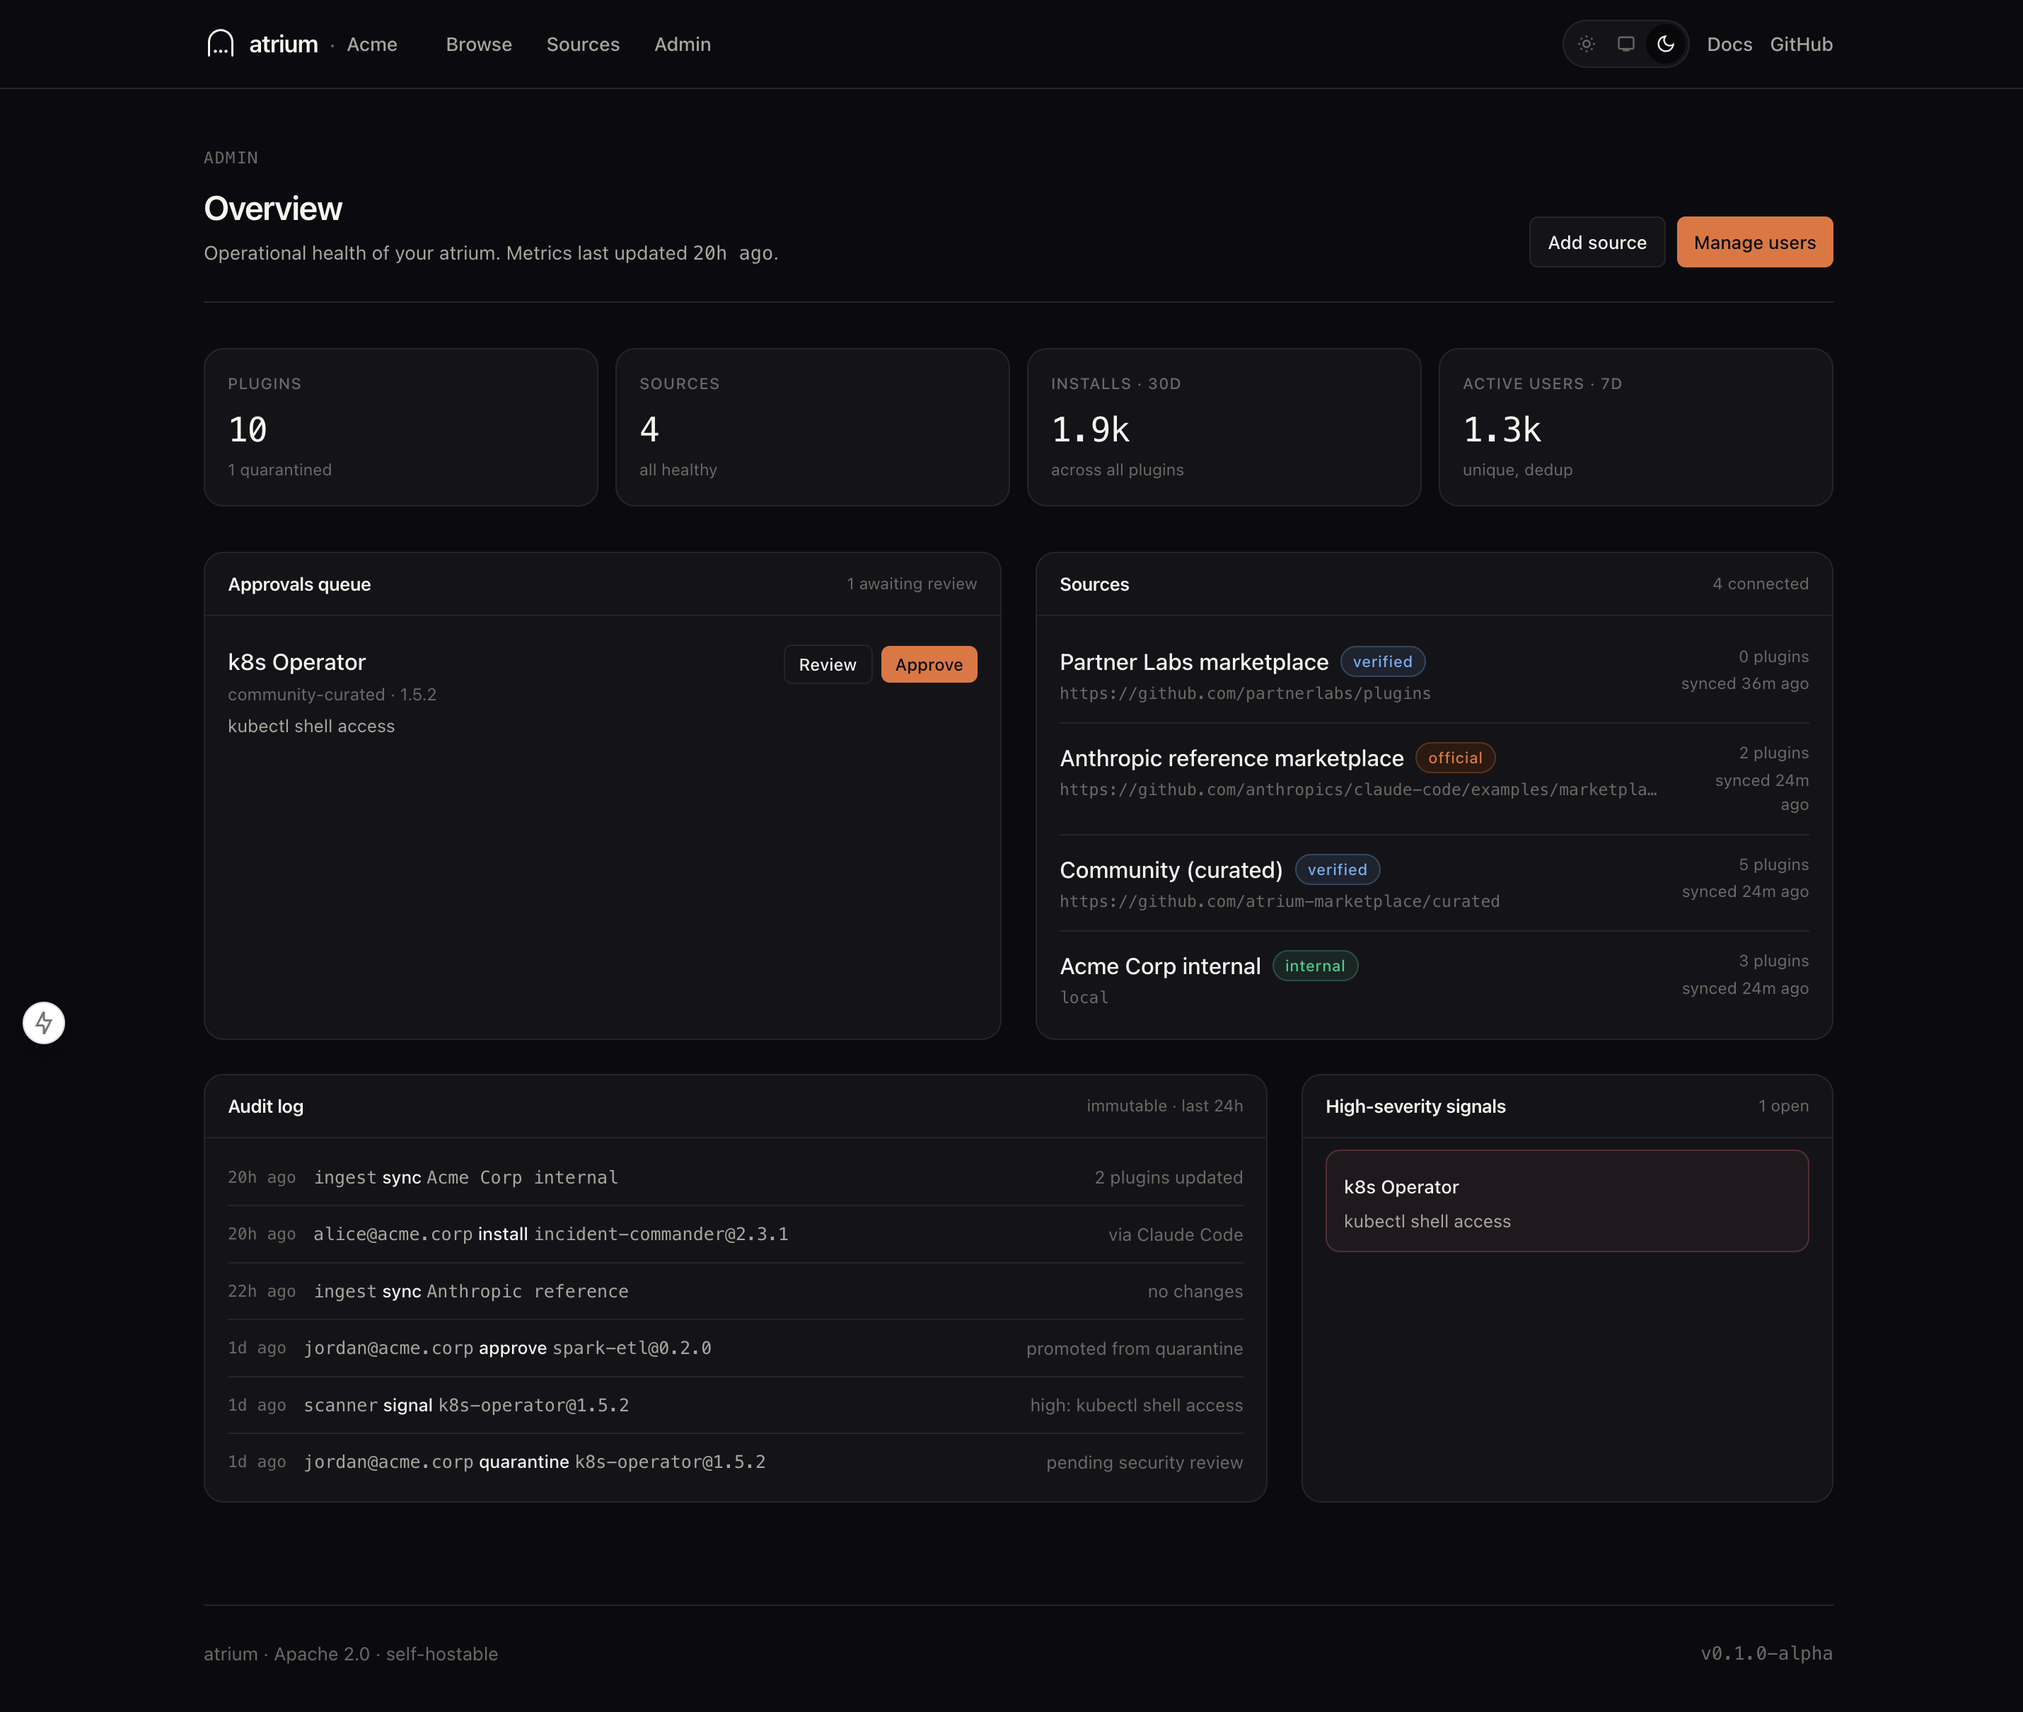
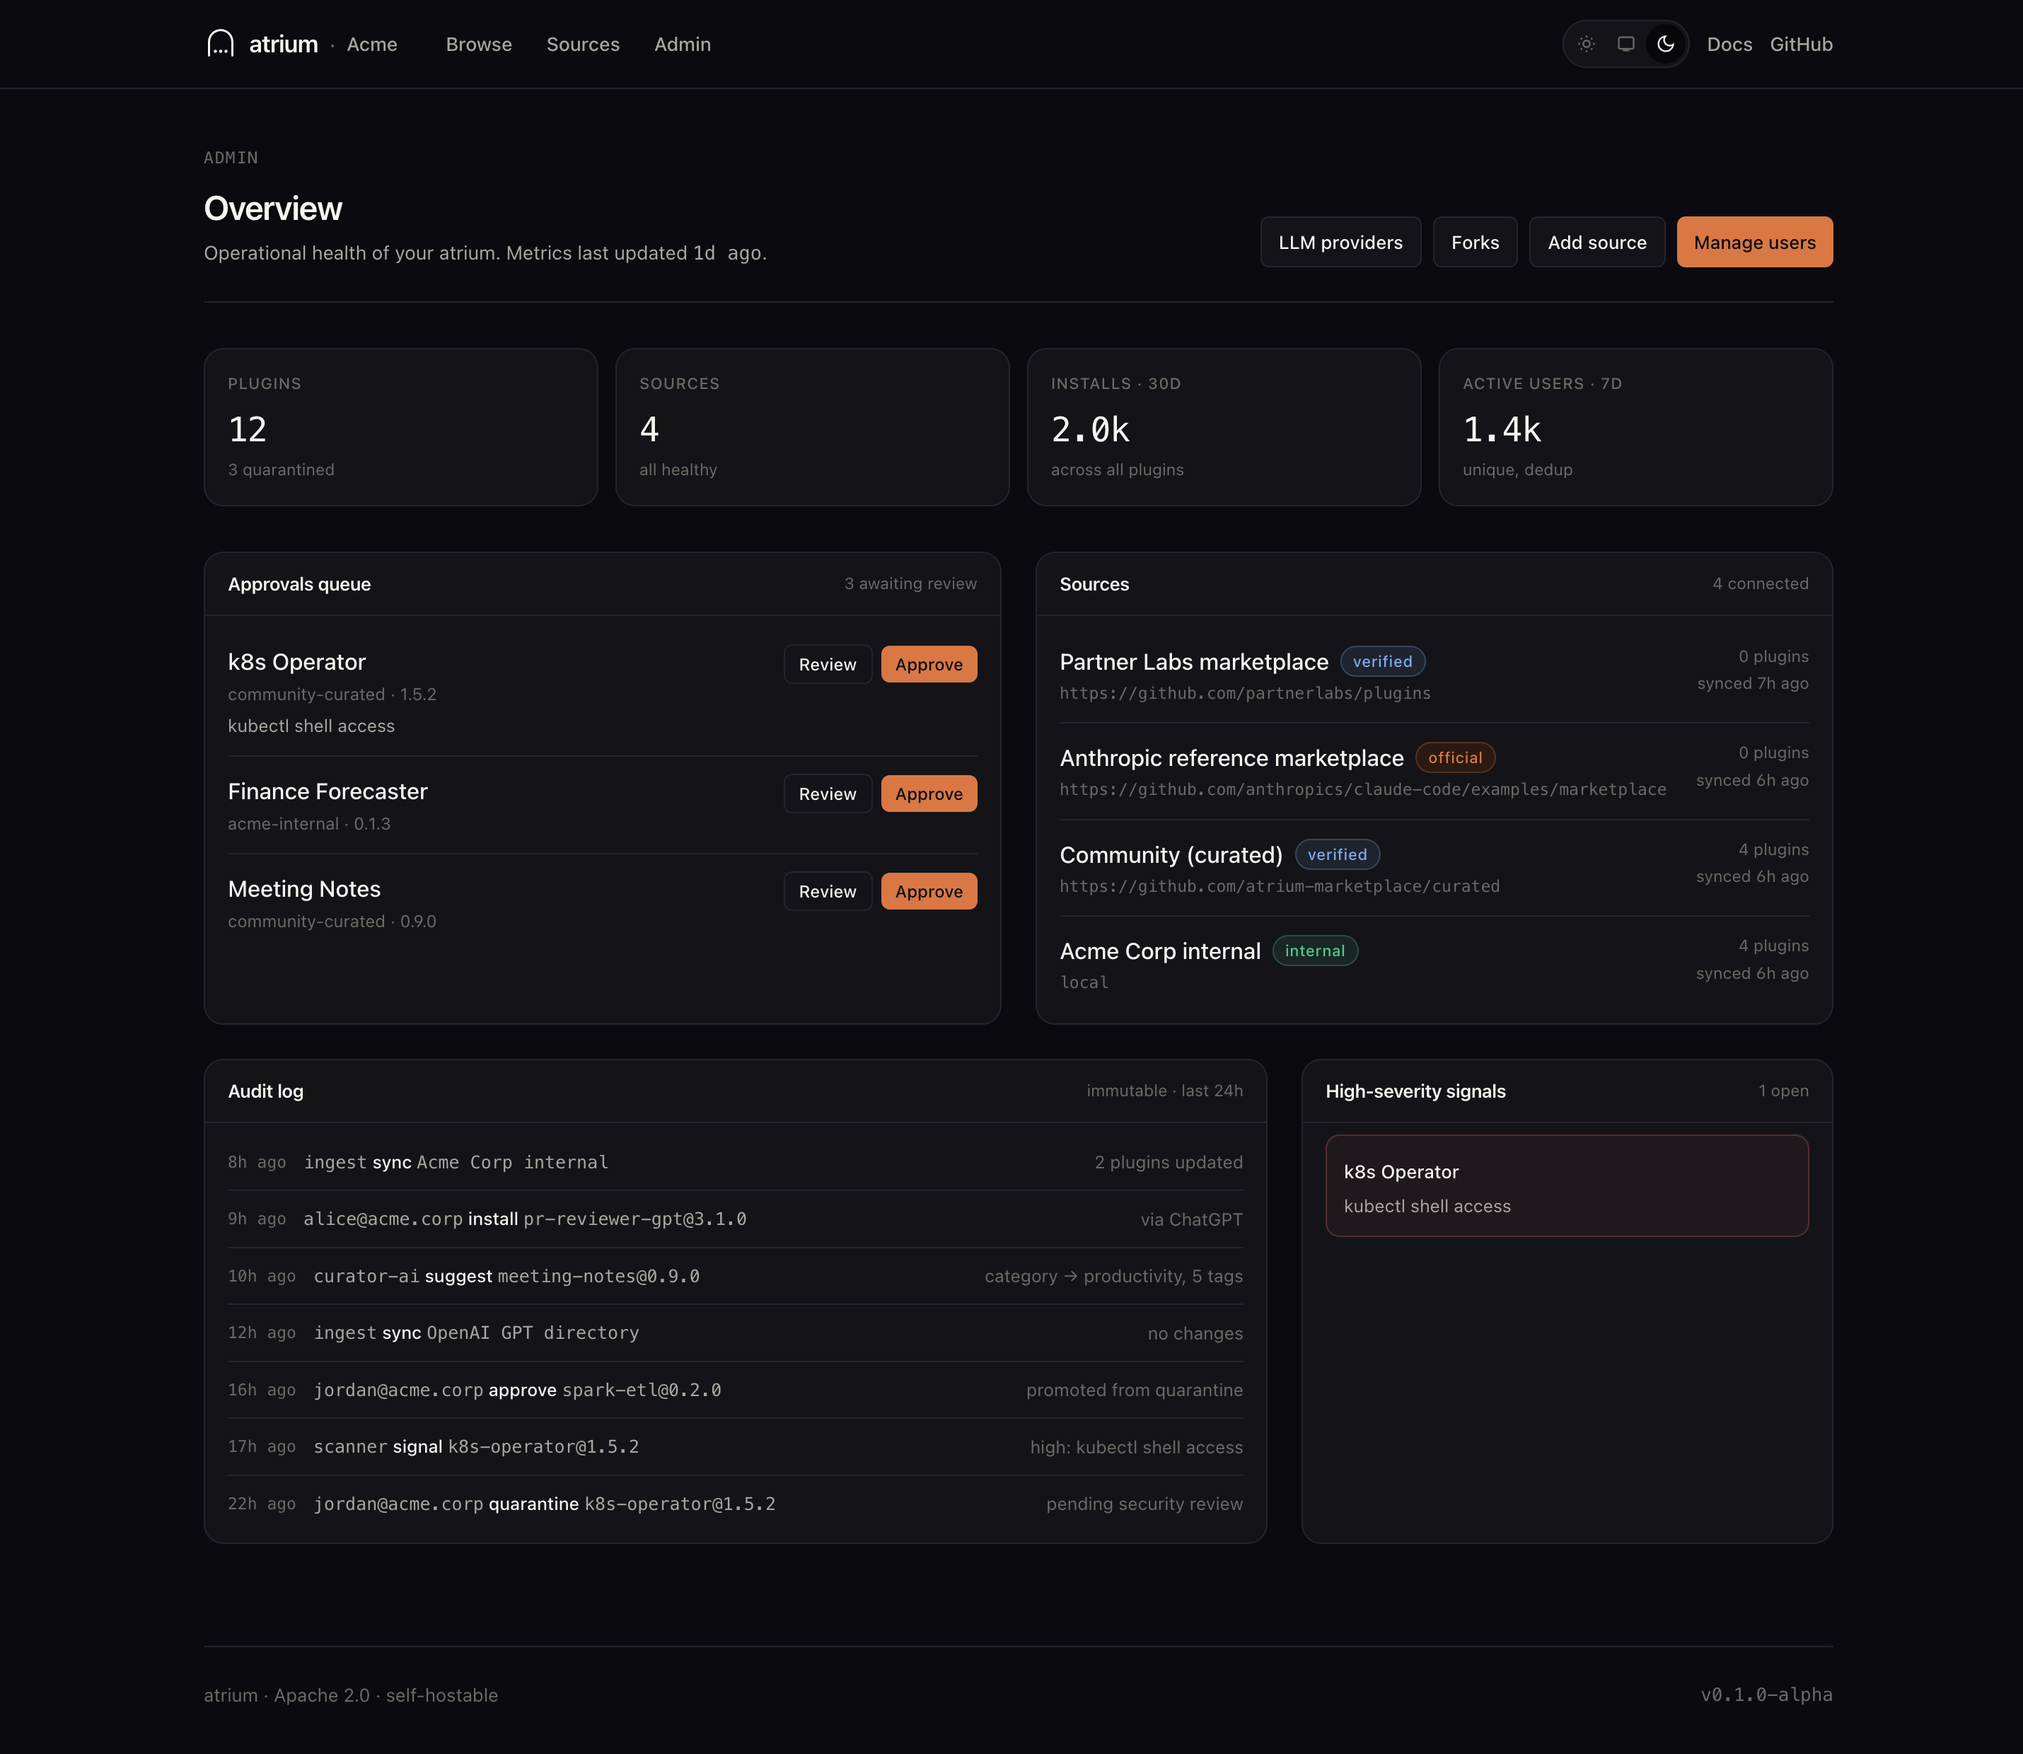
docs: reposition README as provider-agnostic + refresh screenshots
- "Any provider. Any framework." replaces the Claude-Code-first tagline
- New "Supported providers" table (Claude Code / MCP / OpenAI / Gemini / generic)
- Sections on AI curation + LLM key vault (LiteLLM-compatible proxy)
- Sections on version pinning and the fork-and-modify workflow (the
  user-facing story for orgs who want to redistribute an external
  marketplace with their own modifications)
- Updated "Why Atrium" comparison and feature list
- Refreshed 3 screenshots + added providers admin screenshot

diff --git a/README.md b/README.md
@@ -4,7 +4,7 @@
 
 <p align="center">
   <b>The open plugin registry for AI agents.</b><br>
-  Self-host your own. Federate from others. Audit everything.
+  Any provider. Any framework. Self-host your own. Federate from others. Audit everything.
 </p>
 
 <p align="center">
@@ -16,9 +16,9 @@
 
 ---
 
-Anthropic shipped an excellent plugin primitive for Claude Code. It's incomplete for enterprises: no private mirror, no federation policy, no observability, no governance. Atrium is the thin, neutral control plane that fills the gap — **LiteLLM for plugin marketplaces**.
+AI agents are going plural — Claude Code, ChatGPT/Assistants, Gemini extensions, MCP servers, custom frameworks. Each ships its own plugin/extension format, and every enterprise is rediscovering the same problems privately: no unified catalog, no governance, no observability, no white-label story.
 
-Point your team at one URL. Get a beautiful catalog, one-click install snippets, federation from public marketplaces, SSO, RBAC, and OpenTelemetry metrics.
+Atrium is the thin, neutral control plane — **LiteLLM for plugin marketplaces**. Run one instance, get a polished catalog across providers, with federation, version pinning, AI-assisted curation, encrypted LLM key vault, pin-and-fork workflows, and OpenTelemetry out of the box.
 
 ## Screenshots
 
@@ -61,14 +61,30 @@ Point your team at one URL. Get a beautiful catalog, one-click install snippets,
 
 ## Why Atrium
 
-| What enterprises need | What Anthropic's reference marketplace gives | What Atrium adds |
+| What enterprises need | What individual provider stores give | What Atrium adds |
 |---|---|---|
-| A private mirror of approved plugins | Public catalog only | Self-hosted + federated, internal plugins live here |
+| One catalog across providers | Fragmented per vendor | Claude Code, OpenAI, Gemini, MCP, generic — same browse, same policy |
+| A private mirror of approved plugins | Public catalog only | Self-hosted + federated; internal plugins live here |
 | Policy on what devs can install | Anyone can add any URL | Role-aware allow-list, quarantine-by-default, CVE gating |
+| Own LLM keys + proxy | N/A | Encrypted vault (AES-256-GCM); point at a LiteLLM proxy or direct |
+| Automatic catalog hygiene | N/A | AI suggests category + tags using your own LLM keys |
+| Version pinning | Upstream-only | Pin any plugin to a specific version; upstream drift never affects users |
+| Fork-and-modify workflow | N/A | Snapshot an external plugin, distribute your own modified copy |
 | Observability on plugin usage | None | OpenTelemetry traces + per-plugin install / command metrics |
-| A human discovery UX | CLI text list | Searchable catalog with trust tiers, security signals, usage stats |
-| White-labelled for your org | Anthropic-branded | `ATRIUM_ORG_*` env vars theme the whole UI |
+| White-label for your org | Vendor-branded | `ATRIUM_ORG_*` env vars theme the whole UI |
 | Compliance story | None | Immutable audit log, SBOM, signed releases, documented threat model |
+
+## Supported providers
+
+| Provider | Format | Atrium can ingest | Atrium can serve |
+|---|---|---|---|
+| **Claude Code** | `.claude-plugin/marketplace.json` | ✅ git / http | ✅ `/mkt/marketplace.json` |
+| **MCP** | `mcpServers[]` fragments | ✅ as part of any plugin | ✅ surfaced in plugin detail |
+| **OpenAI** | GPT / Custom GPT / Assistants Actions | ✅ directory URL | ✅ plugin detail + search |
+| **Gemini** | Gemini extensions | ✅ git / http | ✅ plugin detail + search |
+| **Generic** | Your custom agent framework | ✅ via HTTP source | ✅ plugin detail + search |
+
+New providers are thin adapters in `lib/ingest/` + optional render extensions to the plugin detail page.
 
 ## Quickstart (dev)
 
@@ -81,7 +97,7 @@ pnpm db:push
 pnpm dev
 ```
 
-Open http://localhost:3000. A seeded catalog of ten realistic plugins across three trust tiers loads automatically.
+Open [http://localhost:3000](http://localhost:3000). A seeded catalog of 12 plugins across 4 providers and 4 trust tiers loads automatically.
 
 ## Quickstart (Docker)
 
@@ -100,23 +116,41 @@ Once Atrium is running, point Claude Code at it:
 /plugin install incident-commander@2.3.1
 ```
 
-Atrium serves Anthropic's `.claude-plugin/marketplace.json` format unchanged. Anything that works in the public marketplace works here.
+Atrium serves Anthropic's `.claude-plugin/marketplace.json` format unchanged. Version pins, hidden flags, and category overrides are honored automatically.
+
+## AI curation & LLM key vault
+
+Under Admin → LLM providers you can register API keys for Anthropic, OpenAI, Azure OpenAI, Gemini, or a LiteLLM proxy. Keys are encrypted at rest with AES-256-GCM using a key derived from `AUTH_SECRET`; only the last four characters are ever shown.
+
+Once at least one provider is configured, every plugin detail page gets a **Curation** panel: click **Suggest** to ask the configured LLM for a category and 3-6 tags, edit if desired, and **Apply override** to persist. The catalog immediately reflects the new metadata.
+
+## Version pinning & forking
+
+On any plugin, admins can:
+
+- **Pin** to a specific version — `/mkt/marketplace.json` serves that version regardless of upstream drift. Unpin to resume tracking upstream.
+- **Fork** an external plugin into your internal source. Atrium snapshots the upstream manifest at fork time and writes a `PluginFork` record you can diverge from independently. Upstream changes never overwrite a fork.
+
+The combination gives orgs full control over third-party code they redistribute: subscribe to any public marketplace, review, modify, pin, and serve your curated version.
 
 ## Features shipped in the alpha
 
-- **Browse** — faceted catalog with category chips, trust-tier filter, per-plugin usage, and review flags for plugins with security signals.
-- **Plugin detail** — full Anthropic manifest rendered (commands, subagents, skills, hooks, MCP servers), one-click install snippet, sticky sidebar with usage metrics, provenance, and a live security-signals panel.
-- **Federation** — ingest from git repos, HTTP URLs, or local uploads; three-tier trust model (`official` / `verified` / `community` / `internal`); quarantine-by-default for new plugins.
-- **Admin dashboard** — operational stats, approvals queue, source health, immutable audit log, high-severity signals panel.
-- **Add source** — server-validated form + Prisma-backed persistence; new sources appear immediately in the catalog.
-- **White-label theming** — `ATRIUM_ORG_NAME`, `ATRIUM_ORG_SHORT_NAME`, `ATRIUM_ORG_LOGO_URL`, `ATRIUM_ORG_URL`, `ATRIUM_SUPPORT_EMAIL`, `ATRIUM_PROPOSAL_URL`, `ATRIUM_ACCENT_HEX`. Theme without touching code.
+- **Browse** — faceted catalog with category chips, provider filter, trust-tier filter, per-plugin usage, and review flags for plugins with security signals.
+- **Plugin detail** — full manifest for the relevant provider (Claude commands/agents/skills/hooks/MCP, OpenAI actions, Gemini extensions), one-click install snippet, sticky sidebar with usage metrics, provenance, security signals, curation + distribution panels.
+- **Federation** — ingest from git repos, HTTP URLs, or local uploads; four-tier trust model (`official` / `verified` / `community` / `internal`); quarantine-by-default for new plugins.
+- **Admin dashboard** — operational stats, approvals queue, source health, immutable audit log, high-severity signals panel. LLM providers + Forks tabs.
+- **AI curation engine** — one-click category + tag suggestions for uncurated plugins. Persists as `PluginOverride` rows that rehydrate the catalog.
+- **Version pinning + forking** — pin any plugin; fork external plugins into your internal source with upstream snapshot preserved.
+- **LLM provider vault** — AES-256-GCM encrypted API keys, baseUrl-aware for LiteLLM-style proxies, Test button for round-trip verification.
+- **Add source** — server-validated form + Prisma-backed persistence; new sources appear immediately.
+- **White-label theming** — `ATRIUM_ORG_NAME`, `ATRIUM_ORG_SHORT_NAME`, `ATRIUM_ORG_LOGO_URL`, `ATRIUM_ORG_URL`, `ATRIUM_SUPPORT_EMAIL`, `ATRIUM_PROPOSAL_URL`, `ATRIUM_ACCENT_HEX`.
 - **Users** — role table (admin / curator / installer / viewer). SSO-backed invitations land in M2.
 
 ## What's coming next
 
 See [`ROADMAP.md`](ROADMAP.md). The headline items:
 
-- **M1** — real ingestion from git sources + Anthropic-compatible serving endpoints
+- **M1** — complete plugin-table migration + real ingestion at scale
 - **M2** — OIDC/SAML, four-eyes approval, full RBAC
 - **M3** — OpenTelemetry end-to-end, admin metrics page
 - **M4** — policy engine, scanners, CVE gating, notifications
@@ -125,14 +159,27 @@ See [`ROADMAP.md`](ROADMAP.md). The headline items:
 ## Architecture at a glance
 
 ```
-Claude Code ──▶ Atrium (Next.js + Prisma + Postgres)
-                 ├── Browse / detail UI (SSR)
-                 ├── /mkt/marketplace.json  (Anthropic-compatible)
-                 ├── /mkt/plugins/…tar.gz   (policy-filtered artifacts)
-                 ├── Admin UI (sources, plugins, users, policies, audit)
-                 └── OTEL exporter  ──▶ your collector
-                            ▲
-          federated sources (git / http / other atriums)
+Claude Code / ChatGPT / Gemini / custom agent
+                 │
+                 ▼
+         Atrium (Next.js + Prisma)
+                 │
+   ┌─────────────┼────────────────────────────┐
+   │             │                            │
+   │   ┌─────────▼────────┐   ┌───────────────▼───────────┐
+   │   │ /mkt/marketplace │   │ Admin UI                   │
+   │   │ .json (Claude)   │   │  sources, plugins, users,  │
+   │   │ + provider APIs  │   │  policies, LLM providers,  │
+   │   │ (OpenAI, Gemini) │   │  forks, audit log          │
+   │   └──────────────────┘   └────────────────────────────┘
+   │
+   ├──▶ Postgres / SQLite (sources, plugins, overrides, forks,
+   │                       audit log, provider configs,
+   │                       curation suggestions)
+   │
+   └──▶ OTEL → your collector
+                 ▲
+   federated sources (git / http / other atriums / GPT Store)
 ```
 
 Deep dive: [`ARCHITECTURE.md`](ARCHITECTURE.md).
@@ -157,19 +204,25 @@ Next.js 15 (App Router, Server Components) · React 19 · Tailwind v4 · Prisma 
 ## Testing
 
 ```bash
-pnpm test          # unit (vitest) — 56 tests
-pnpm test:e2e      # end-to-end (playwright) — 21 tests
+pnpm test          # unit (vitest) — 66 tests
+pnpm test:e2e      # end-to-end (playwright) — 23+ tests
 pnpm typecheck     # strict TypeScript
 pnpm build         # production build verification
 ```
 
-- **Unit** covers `lib/utils`, `lib/branding`, `lib/sources`, `lib/manifest`, git/http ingest adapters (mocked `fetch` + URL-validation cases), and Server Action validation paths (mocked `next/cache` + `next/navigation`).
-- **E2E** covers browse/filter/search, category + source narrowing, plugin detail manifest rendering, install snippet, flag-for-rescan, admin stats, approve flow, add-source end-to-end, users page, `/mkt/marketplace.json` contract, theme persistence, URL-filter round-trip.
+- **Unit** covers `lib/utils`, `lib/branding`, `lib/sources`, `lib/manifest`, `lib/crypto` (AES-GCM round-trip + tamper detection), git/http ingest adapters (mocked `fetch` + URL-validation cases), and Server Action validation paths.
+- **E2E** covers browse/filter/search, category + source + provider narrowing, plugin detail manifest rendering, install snippet, flag-for-rescan, admin stats, approve flow, add-source end-to-end, users page, `/mkt/marketplace.json` contract, `/api/health`, theme persistence, URL-filter round-trip.
 - **CI** (GitHub Actions) runs typecheck + unit + build in one job, then e2e in a separate job gated behind them, uploading the Playwright report on failure.
 
 ## Contributing
 
-PRs welcome. See [`CONTRIBUTING.md`](CONTRIBUTING.md). Especially looking for help on source adapters (Artifactory, Nexus, S3), scanners (new static checks), auth providers, translations, and runbooks.
+PRs welcome. See [`CONTRIBUTING.md`](CONTRIBUTING.md). Especially looking for help on:
+
+- New source adapters (Artifactory, Nexus, S3)
+- Provider adapters (Azure AI Studio, Vertex AI, Bedrock)
+- Scanners (new static checks)
+- Auth providers
+- Translations
 
 Security? Report privately via GitHub Security Advisories — not a public issue. Details in [`SECURITY.md`](SECURITY.md).
 
